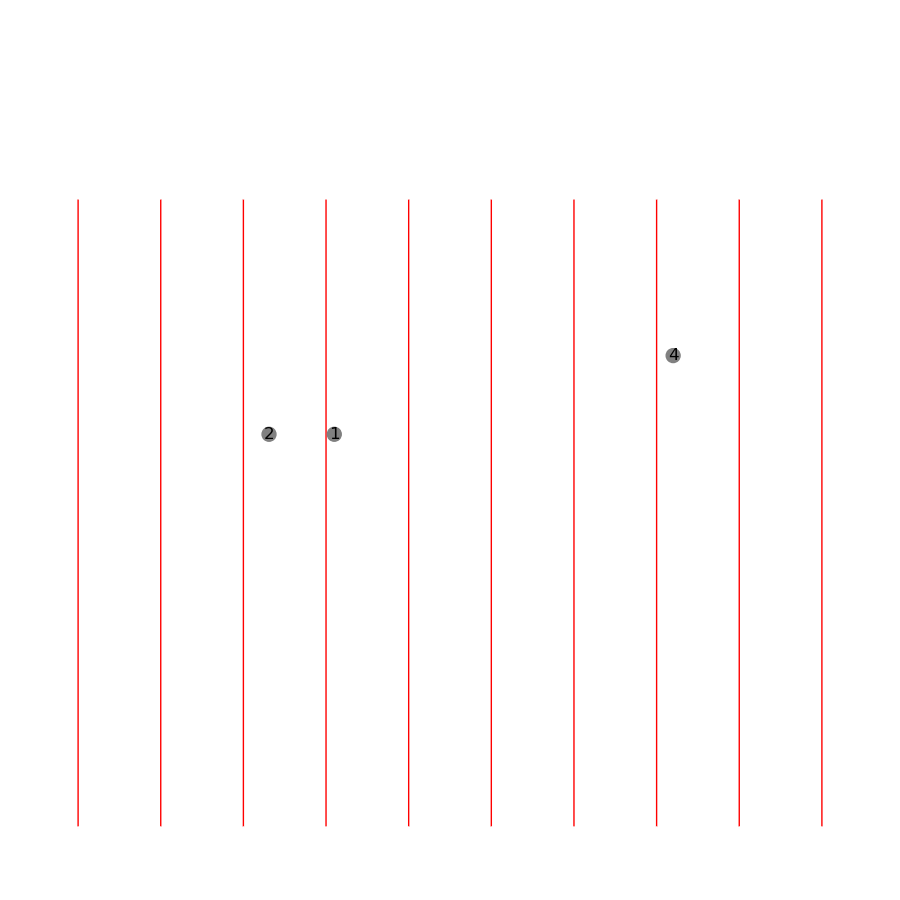
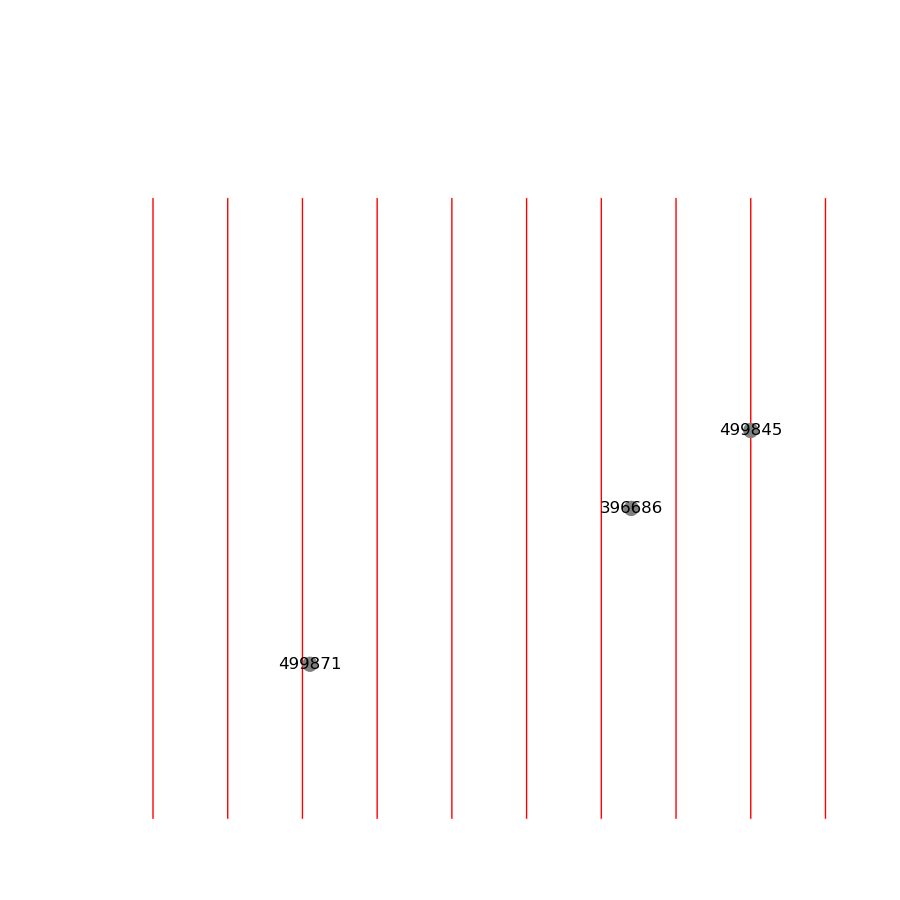
build graph

diff --git a/algorithm/algorithms.py b/algorithm/algorithms.py
@@ -40,20 +40,36 @@ def draw_png_graph(products,res_ind):
     res = [products[i-1][0] for i in range(1,len(res_ind)-1)]
     plt.figure(figsize=(9, 9))
     G = nx.DiGraph()
-    G.add_node(0,label = 'Smile!', pos=(0,0))
+    # add anchor
+    for p in anchor:
+        G.add_node(-p[0]-p[1], label="", pos=(p[0], p[1]), col='white',size = 1)
+    # add shelf
+    for ind in range(len(shelf)):
+        s = shelf[ind]
+        id1 = str(s[0][0])
+        id2 = - s[0][0]-1
+        G.add_node(id1,label = "", pos=(s[0][0],s[0][1]),col = 'white',size = 1)
+        G.add_node(id2,label = "", pos=(s[1][0],s[1][1]),col = 'white',size = 1)
+        G.add_edge(id1,id2,col = 'red')
+
+
+    G.add_node(0,label = 'Smile!', pos=(0,0),col='grey',size = 100)
     for p in products:
-        G.add_node(p[0],label = p[0], pos=(p[1],p[2]))
+        G.add_node(p[0],label = p[0], pos=(p[1],p[2]),col='grey',size = 100)
 
     G.add_edge(0, res[0])
     G.add_edge(res[-1],0)
     for i in range(1,len(res)):
-        G.add_edge(res[i-1],res[i])
-    pos = nx.get_node_attributes(G,'pos')
+        G.add_edge(res[i-1],res[i],col = "black")
+    pos = nx.get_node_attributes(G, 'pos')
     node_labels = nx.get_node_attributes(G, 'label')
-    nx.draw(G, pos=pos,  node_size=500, labels=node_labels, font='bond',
-            arrowstyle='->', arrows=True,
-            arrowsize=30, edge_color='red',
-            width=1, directed=True
+    col = nx.get_node_attributes(G, 'col').values()
+    size = list(nx.get_node_attributes(G, 'size').values())
+    edge_color = nx.get_edge_attributes(G, 'col').values()
+    nx.draw(G, pos=pos, node_size=size, labels=node_labels, node_color=col,
+            arrowstyle='-', arrows=True,
+            arrowsize=30, edge_color=edge_color,
+            width=1
             )
     plt.savefig("data/path/path.png")
     print("generate: path.png")
@@ -76,6 +92,7 @@ def draw_png_dot_graph(products,path):
         G.add_node(id1,label = "", pos=(s[0][0],s[0][1]),col = 'white',size = 1)
         G.add_node(id2,label = "", pos=(s[1][0],s[1][1]),col = 'white',size = 1)
         G.add_edge(id1,id2,col = 'red')
+
     pos = nx.get_node_attributes(G,'pos')
     node_labels = nx.get_node_attributes(G, 'label')
     col =  nx.get_node_attributes(G, 'col').values()
